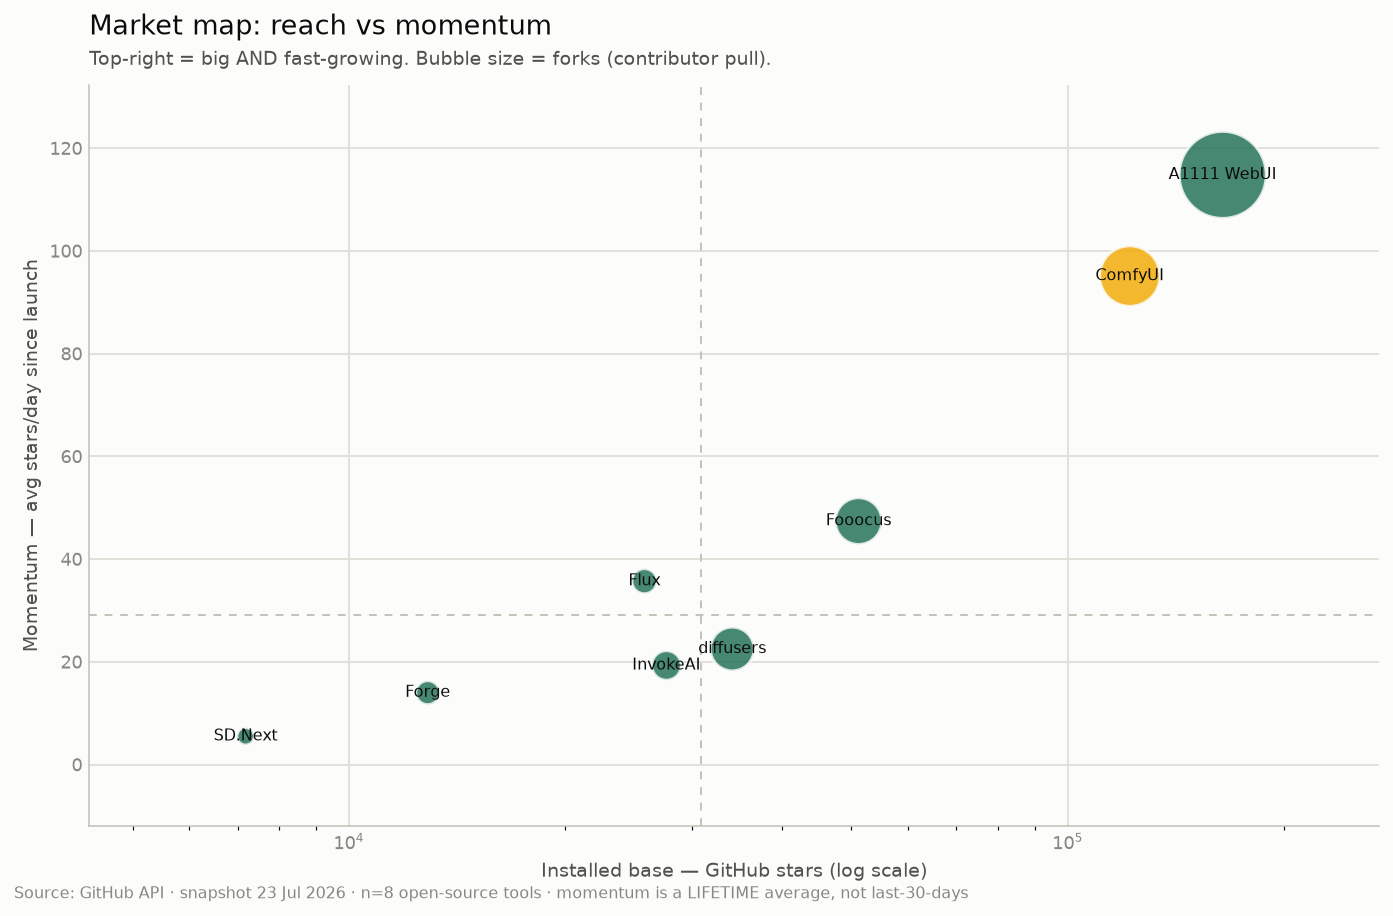
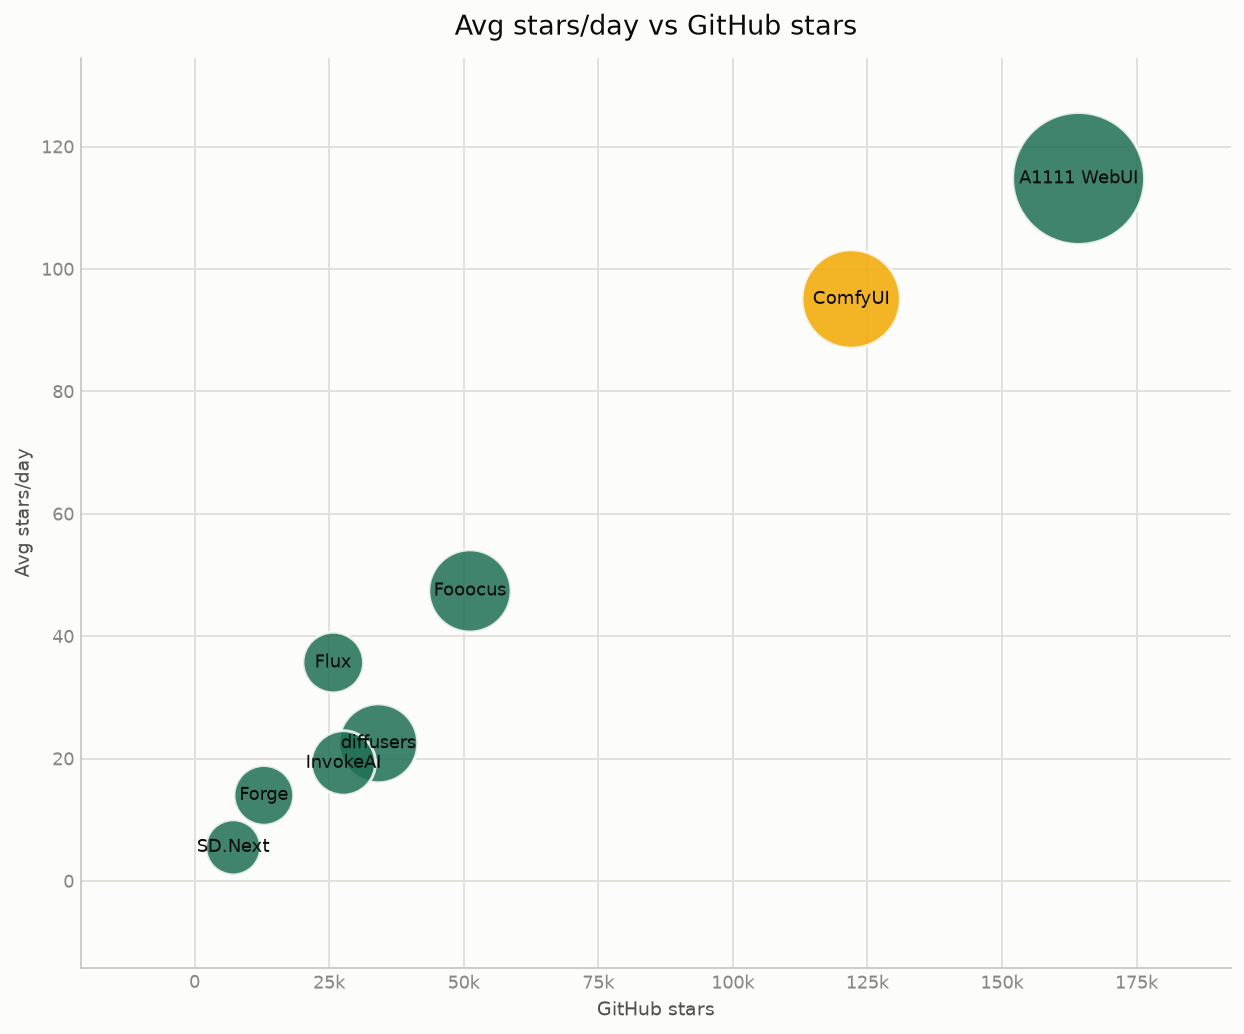
Follow the PDF ground rules: trim chart API, center layout, reset to 0.1.0
Per the "Build Your First Library" deck and the user's direction:
- Design the smallest API: trim chart signatures to
  radial_bar(df, label_col, value_col, highlight=None) and
  bubble(df, x, y, size_col, label_col=None, color_col=None, highlight=None).
  Titles derive from column names; drop title/subtitle/source/vline/xlabel/etc.
- Keep exactly the two named charts (radial_bar, bubble); drop ranked_bar
- Center the plot in the figure with symmetric margins; radial labels moved
  to one outer ring; bubbles sized large enough to read
- Reset to 0.1.0 ("0.1.0 mindset"); package is 134 lines
- Sync example (rename columns for friendly auto-titles), README, video
  script, and design rationale to the trimmed API (attribution now lives in
  README / narration, not an on-chart footer)

diff --git a/src/simple_eda/plots.py b/src/simple_eda/plots.py
@@ -1,7 +1,8 @@
-"""Styled matplotlib charts. Each takes a DataFrame and returns a Figure
-(never shows, never mutates). One idea: color carries meaning and the single
-gold accent marks the value that matters. title / subtitle / source= follow
-McCandless's lenses (interestingness, function, form, integrity)."""
+"""Two styled matplotlib charts plus a shared house style. Each takes a
+DataFrame and returns a Figure (never shows, never mutates). Signatures are
+kept small (the "design the smallest API" rule); color carries meaning and a
+single gold accent marks the highlighted category. Titles derive from the
+column names, so there are no title/label parameters to pass."""
 
 import numpy as np
 import matplotlib.pyplot as plt
@@ -11,10 +12,9 @@ import pandas as pd
 
 SURFACE, INK, SECONDARY, MUTED = "#fcfcfb", "#0b0b0b", "#52514e", "#898781"
 GRID, BASELINE = "#e1e0d9", "#c3c2b7"
-GREEN, GOLD = "#1f6f54", "#f2a900"   # recessive base + the one accent (school colors)
+GREEN, GOLD = "#1f6f54", "#f2a900"                       # recessive base + one accent
 RAMP = mcolors.LinearSegmentedColormap.from_list("g", ["#cfe8dc", GREEN])  # magnitude
-# a small colorblind-safe qualitative set for category coloring (blue/orange/aqua/violet/red)
-QUAL = ["#2a78d6", "#eb6834", "#1baf7a", "#4a3aa7", "#e34948", "#eda100"]
+QUAL = ["#2a78d6", "#eb6834", "#1baf7a", "#4a3aa7", "#e34948", "#eda100"]   # categories
 
 
 def _k(x, _p=None):
@@ -29,107 +29,63 @@ def _style(ax):
     ax.tick_params(colors=MUTED, labelsize=9, length=0)
 
 
-def _frame(fig, ax, title, subtitle=None, source=None):
-    """Title + optional takeaway subtitle + optional source footer (integrity)."""
-    ax.set_title(title, loc="left", color=INK, fontsize=14, pad=26 if subtitle else 12)
-    if subtitle:
-        ax.annotate(subtitle, (0, 1), (0, 8), "axes fraction", "offset points",
-                    ha="left", va="bottom", color=SECONDARY, fontsize=10)
-    if source:
-        fig.text(0.01, 0.005, source, color=MUTED, fontsize=8)
-
-
-def ranked_bar(df, label_col, value_col, top=None, title=None, subtitle=None,
-               xlabel=None, source=None):
-    """Horizontal ranked bar; the #1 value is gold, the rest recede."""
-    d = df[[label_col, value_col]].dropna().sort_values(value_col)
-    if top: d = d.tail(top)
-    labels, values = d[label_col].astype(str).tolist(), d[value_col].tolist()
-    colors = [GREEN] * len(values); colors[-1] = GOLD
-    fig, ax = plt.subplots(figsize=(9, max(2.5, 0.5 * len(values) + 1.2))); _style(ax)
-    ax.barh(labels, values, color=colors, height=0.68)
-    ax.xaxis.grid(True, color=GRID, linewidth=1)
-    ax.xaxis.set_major_formatter(FuncFormatter(_k))
-    for y, v in enumerate(values):
-        ax.text(v + max(values) * 0.01, y, f"{v:,.0f}", va="center", color=SECONDARY, fontsize=9)
-    ax.margins(x=0.13)
-    _frame(fig, ax, title or f"{value_col} by {label_col}", subtitle, source)
-    ax.set_xlabel(xlabel or value_col, color=SECONDARY)
-    fig.tight_layout(); return fig
-
-
-def radial_bar(df, label_col, value_col, highlight=None, title=None,
-               subtitle=None, source=None):
-    """Circular bar chart: one bar per category, length AND color = magnitude.
-    A narrative, high-impact take on a ranking. The gold bar is `highlight`."""
+def radial_bar(df, label_col, value_col, highlight=None):
+    """Circular bar chart: bar length AND color both encode value; the
+    highlighted category is gold. Centered and symmetric in the figure."""
     d = df[[label_col, value_col]].dropna().sort_values(value_col, ascending=False)
-    labels, values = d[label_col].astype(str).tolist(), d[value_col].to_numpy(float)
+    labels = d[label_col].astype(str).tolist()
+    values = d[value_col].to_numpy(float)
     n = len(values); vmax = values.max()
     ang = np.linspace(0, 2 * np.pi, n, endpoint=False)
     width = 2 * np.pi / n * 0.9
-    colors = [GOLD if labels[i] == highlight else RAMP(values[i] / vmax) for i in range(n)]
+    colors = [GOLD if labels[i] == str(highlight) else RAMP(values[i] / vmax) for i in range(n)]
 
-    fig, ax = plt.subplots(figsize=(8.5, 8.5), subplot_kw={"projection": "polar"})
+    fig, ax = plt.subplots(figsize=(8, 8), subplot_kw={"projection": "polar"})
     fig.set_facecolor(SURFACE); ax.set_facecolor(SURFACE)
-    ax.bar(ang, values, width=width, color=colors, edgecolor=SURFACE, linewidth=1.5, zorder=3)
+    ax.set_position([0.13, 0.13, 0.74, 0.74])           # centered square, equal margins
+    ax.bar(ang, values, width=width, color=colors, edgecolor=SURFACE, linewidth=1.5)
     ax.set_theta_zero_location("N"); ax.set_theta_direction(-1)
-    ax.set_ylim(-vmax * 0.45, vmax * 1.02)  # hollow center
-    ax.set_xticks([]); ax.set_yticks([]); ax.spines["polar"].set_visible(False); ax.grid(False)
-    for i in range(n):
-        deg = np.degrees(ang[i]); rot = deg
-        align = "left"
+    ax.set_ylim(-vmax * 0.5, vmax * 1.32)               # hollow center + room for a label ring
+    ax.set_xticks([]); ax.set_yticks([])
+    ax.spines["polar"].set_visible(False); ax.grid(False)
+    for i in range(n):                                  # labels on one outer ring (tidy, symmetric)
+        deg = np.degrees(ang[i]); rot, ha = deg, "left"
         if 90 < deg < 270:
-            rot = deg + 180; align = "right"
-        ax.text(ang[i], values[i] + vmax * 0.04, f"{labels[i]}  {values[i]:,.0f}",
-                rotation=rot, rotation_mode="anchor", ha=align, va="center",
-                fontsize=8.5, color=INK if labels[i] == highlight else SECONDARY,
-                weight="bold" if labels[i] == highlight else "normal")
-    if title:
-        fig.text(0.5, 0.94, title, ha="center", color=INK, fontsize=15, weight="bold")
-    if subtitle:
-        fig.text(0.5, 0.905, subtitle, ha="center", color=SECONDARY, fontsize=10)
-    if source:
-        fig.text(0.01, 0.01, source, color=MUTED, fontsize=8)
+            rot, ha = deg + 180, "right"
+        ax.text(ang[i], vmax * 1.12, f"{labels[i]}  {values[i]:,.0f}",
+                rotation=rot, rotation_mode="anchor", ha=ha, va="center", fontsize=9,
+                color=INK if labels[i] == str(highlight) else SECONDARY,
+                weight="bold" if labels[i] == str(highlight) else "normal")
+    fig.suptitle(f"{value_col} by {label_col}", y=0.95, fontsize=15, weight="bold", color=INK)
     return fig
 
 
-def bubble(df, x, y, size_col, label_col=None, color_col=None, highlight=None,
-           logx=False, vline=None, hline=None, title=None, subtitle=None,
-           xlabel=None, ylabel=None, source=None, size_range=(80, 2000)):
-    """Bubble "market map": x vs y, bubble area = size_col, color = color_col
-    (a category) or the gold accent for `highlight`. Reusable for any data."""
+def bubble(df, x, y, size_col, label_col=None, color_col=None, highlight=None):
+    """Bubble chart: bubble AREA = size_col; color = color_col category, or the
+    gold accent for the highlighted label. Bubbles are large enough to read and
+    the plot is centered with symmetric margins."""
     d = df.dropna(subset=[x, y, size_col]).copy()
     s = d[size_col].to_numpy(float)
-    sizes = size_range[0] + (s - s.min()) / (np.ptp(s) or 1) * (size_range[1] - size_range[0])
+    sizes = 800 + (s - s.min()) / (np.ptp(s) or 1) * (4600 - 800)   # never too small
 
-    fig, ax = plt.subplots(figsize=(10, 6.5)); _style(ax)
-    if vline is not None: ax.axvline(vline, color=BASELINE, lw=1, ls=(0, (4, 4)))
-    if hline is not None: ax.axhline(hline, color=BASELINE, lw=1, ls=(0, (4, 4)))
-
+    fig, ax = plt.subplots(figsize=(9, 7.5)); _style(ax)
+    labels = d[label_col].astype(str) if label_col else pd.Series([""] * len(d), index=d.index)
     if color_col:
         cats = list(dict.fromkeys(d[color_col]))
         cmap = {c: QUAL[i % len(QUAL)] for i, c in enumerate(cats)}
         colors = [cmap[c] for c in d[color_col]]
     else:
-        colors = [GOLD if (label_col and r == highlight) else GREEN
-                  for r in (d[label_col] if label_col else [None] * len(d))]
-    ax.scatter(d[x], d[y], s=sizes, c=colors, alpha=0.82,
-               edgecolor=SURFACE, linewidth=1.5, zorder=3)
-    if label_col:
-        for _, r in d.iterrows():
-            ax.annotate(str(r[label_col]), (r[x], r[y]), xytext=(0, 0),
-                        textcoords="offset points", ha="center", va="center",
-                        fontsize=8, color=INK, zorder=5)
-    if logx: ax.set_xscale("log")
+        colors = [GOLD if lab == str(highlight) else GREEN for lab in labels]
+    ax.scatter(d[x], d[y], s=sizes, c=colors, alpha=0.85, edgecolor=SURFACE, linewidth=1.5, zorder=3)
+    for xi, yi, lab in zip(d[x], d[y], labels):
+        ax.annotate(lab, (xi, yi), ha="center", va="center", fontsize=9, color=INK, zorder=5)
     ax.grid(True, color=GRID, linewidth=1)
-    ax.yaxis.set_major_formatter(FuncFormatter(_k))
-    if not logx: ax.xaxis.set_major_formatter(FuncFormatter(_k))
-    ax.margins(0.16)
-    if color_col:  # a legend only when color encodes a category
+    ax.xaxis.set_major_formatter(FuncFormatter(_k)); ax.yaxis.set_major_formatter(FuncFormatter(_k))
+    ax.margins(0.18)                                     # symmetric breathing room
+    if color_col:
         for c in cats:
-            ax.scatter([], [], c=cmap[c], s=90, edgecolor=SURFACE, label=str(c))
-        ax.legend(frameon=False, fontsize=9, labelcolor=SECONDARY, loc="best")
-    _frame(fig, ax, title or f"{y} vs {x}", subtitle, source)
-    ax.set_xlabel((xlabel or x) + (" (log scale)" if logx else ""), color=SECONDARY)
-    ax.set_ylabel(ylabel or y, color=SECONDARY)
+            ax.scatter([], [], c=cmap[c], s=120, edgecolor=SURFACE, label=str(c))
+        ax.legend(frameon=False, fontsize=9, labelcolor=SECONDARY)
+    ax.set_title(f"{y} vs {x}", loc="center", color=INK, fontsize=14, pad=12)
+    ax.set_xlabel(x, color=SECONDARY); ax.set_ylabel(y, color=SECONDARY)
     fig.tight_layout(); return fig

diff --git a/examples/ai_image_tool_race.py b/examples/ai_image_tool_race.py
@@ -1,8 +1,11 @@
 """The AI Image-Gen Tool Race — demo of simple_eda on real adoption data.
 
-Reads the bundled GitHub snapshot and produces the two "favorite" charts:
+Produces the two "favorite" charts:
   1. radial_bar — GitHub stars per tool (mindshare), leader in gold
   2. bubble     — reach vs momentum, bubble size = forks (a market map)
+
+Titles come from the column names, so we rename columns to friendly labels
+first (the library keeps a tiny, no-frills signature).
 
 Run:  python examples/ai_image_tool_race.py
 Refresh the data first with:  python scripts/fetch_ai_tools.py
@@ -13,31 +16,24 @@ matplotlib.use("Agg")  # save files without a display
 import pandas as pd
 import simple_eda as eda
 
-df = pd.read_csv("data/ai_image_tools_2026-07.csv")
-SOURCE = "Source: GitHub API · snapshot 23 Jul 2026 · n=8 open-source tools"
+df = pd.read_csv("data/ai_image_tools_2026-07.csv").rename(columns={
+    "tool": "Tool",
+    "stars": "GitHub stars",
+    "stars_per_day": "Avg stars/day",
+    "forks": "Forks",
+})
 
 # --- a quick look, the boring EDA way -----------------------------------------
 print(eda.summarize(df))
 print("numeric:", eda.numeric_columns(df))
 
 # --- chart 1: the race, as a radial bar ---------------------------------------
-eda.radial_bar(
-    df, "tool", "stars", highlight="ComfyUI",
-    title="The AI Image-Gen Tool Race",
-    subtitle="GitHub stars by tool — ComfyUI, the modern leader, in gold",
-    source=SOURCE,
-).savefig("examples/01_radial.png", dpi=140, bbox_inches="tight")
+eda.radial_bar(df, "Tool", "GitHub stars", highlight="ComfyUI").savefig(
+    "examples/01_radial.png", dpi=140)  # no tight crop: keep the centered square
 
-# --- chart 2: the market map (reach vs momentum, size = forks) -----------------
-eda.bubble(
-    df, "stars", "stars_per_day", size_col="forks", label_col="tool",
-    highlight="ComfyUI", logx=True,
-    vline=df["stars"].median(), hline=df["stars_per_day"].median(),
-    title="Market map: reach vs momentum",
-    subtitle="Top-right = big AND fast-growing. Bubble size = forks (contributor pull).",
-    xlabel="Installed base — GitHub stars",
-    ylabel="Momentum — avg stars/day since launch",
-    source=SOURCE + " · momentum is a LIFETIME average, not last-30-days",
-).savefig("examples/02_market_map.png", dpi=140, bbox_inches="tight")
+# --- chart 2: the market map (reach vs momentum, bubble size = forks) ----------
+eda.bubble(df, "GitHub stars", "Avg stars/day", "Forks",
+           label_col="Tool", highlight="ComfyUI").savefig(
+    "examples/02_market_map.png", dpi=140, bbox_inches="tight")
 
 print("saved examples/01_radial.png and examples/02_market_map.png")

diff --git a/src/simple_eda/__init__.py b/src/simple_eda/__init__.py
@@ -1,10 +1,10 @@
-"""simple_eda: pandas-based EDA helpers plus styled matplotlib charts."""
+"""simple_eda: pandas-based EDA helpers plus two styled matplotlib charts."""
 
 from .core import summarize, missing, numeric_columns, categorical_columns
-from .plots import ranked_bar, radial_bar, bubble
+from .plots import radial_bar, bubble
 
-__version__ = "0.4.0"
+__version__ = "0.1.0"
 __all__ = [
     "summarize", "missing", "numeric_columns", "categorical_columns",
-    "ranked_bar", "radial_bar", "bubble",
+    "radial_bar", "bubble",
 ]

diff --git a/docs/DESIGN_RATIONALE.md b/docs/DESIGN_RATIONALE.md
@@ -8,10 +8,10 @@ answered, and what it protects against.
 
 | Lens | What it demands | How the charts answer it |
 | --- | --- | --- |
-| **Interestingness** | relevant, meaningful, new | A live question — *which AI-image tools are winning developer adoption?* — with the "so what" stated in every **subtitle**, not left for the viewer to infer. |
-| **Function** | easiness, usefulness, usability, fit | Human titles/axes ("Installed base — GitHub stars", not `stars`); `k`/`M` tick formatting; direct value labels (no legend lookup); a log x-axis so 7k–164k all read; quadrant guide lines that make "big AND fast-growing" a *place* on the chart. |
-| **Form** | beauty, structure, appearance | One recessive base color (green) + one accent (gold) on the single key value; off-white surface; hairline grid; top/right spines removed. Structure carries meaning — bars sorted so rank *is* the shape. |
-| **Integrity** | truth, consistency, honesty, accuracy | Every chart carries a **source + date footer**. The momentum metric is explicitly labeled a *lifetime average, not last-30-days*, because I can't get star history — I refuse to imply precision I don't have. Missing signals (PyPI/HF) are dropped, never silently zero-filled. |
+| **Interestingness** | relevant, meaningful, new | A live question — *which AI-image tools are winning developer adoption?* The gold accent answers it at a glance; the "so what" is delivered in the README and the video narration. |
+| **Function** | easiness, usefulness, usability, fit | Titles derive from friendly column names; `k`/`M` tick formatting; direct value labels (no legend lookup); the plot is centered with symmetric margins; bubbles are sized large enough to read. |
+| **Form** | beauty, structure, appearance | One recessive base color (green) + one accent (gold) on the single key value; off-white surface; hairline grid; top/right spines removed. In `radial_bar`, color *and* length both encode magnitude. |
+| **Integrity** | truth, consistency, honesty, accuracy | The momentum metric is a *lifetime average, not last-30-days* — stated in the README and narration, because star history isn't available and I refuse to imply precision I don't have. Missing signals (PyPI/HF) are dropped, never silently zero-filled. Attribution is kept off-chart only to honor the "smallest API" rule — never to hide it. |
 
 ## The failure modes each choice avoids
 
@@ -27,8 +27,8 @@ defenses against those:
 - **Interestingness without Integrity → "rubbish."** A hot topic tempts
   overclaiming. The honest "lifetime average" caveat keeps the momentum story
   truthful.
-- **Everything except Interestingness → "experiment."** The subtitle forces a
-  point of view, so the chart argues something instead of just displaying.
+- **Everything except Interestingness → "experiment."** The title + gold accent
+  force a point of view, so the chart argues something instead of just displaying.
 
 ## Colorblind integrity (a Form + Integrity overlap)
 
@@ -39,10 +39,11 @@ only works for full-color vision isn't accurate for everyone.
 
 ## How this maps to the reusable library
 
-The lenses are encoded as function parameters, so any future chart inherits
-them — this is the "professional, adaptive in real work" part:
+The lenses are baked into tiny functions (per the "design the smallest API"
+rule) rather than exposed as many optional parameters:
 
-- `title=` / `subtitle=` → Interestingness (question + takeaway)
-- `xlabel=` / `ylabel=`, `k`/`M` formatter, `vline=` / `hline=` → Function
+- `highlight=` + gold accent → Interestingness (points at the answer)
+- auto titles from column names, `k`/`M` formatter, big readable bubbles,
+  centered layout → Function
 - house palette, `_style()`, one gold accent → Form
-- `source=` footer, honest metric labels → Integrity
+- honest metric labels in README + narration → Integrity

diff --git a/README.md b/README.md
@@ -34,11 +34,13 @@ list, or pandas Series). Nothing is printed; the DataFrame is never mutated.
 Each takes a DataFrame and **returns a matplotlib `Figure`** (never calls
 `show`, never mutates). Save with `fig.savefig(...)` or show it in a notebook.
 
+Two charts, both with small no-frills signatures (titles derive from the
+column names — rename your columns to friendly labels for a nice title):
+
 | Function | Chart |
 | --- | --- |
-| `radial_bar(df, label_col, value_col, highlight=)` | circular bar chart; length + color = magnitude |
-| `bubble(df, x, y, size_col, color_col=, highlight=)` | bubble "market map"; size + color add dimensions |
-| `ranked_bar(df, label_col, value_col)` | horizontal ranked bar, leader in gold |
+| `radial_bar(df, label_col, value_col, highlight=None)` | circular bar chart; length + color = magnitude |
+| `bubble(df, x, y, size_col, label_col=None, color_col=None, highlight=None)` | bubble "market map"; size + color add dimensions |
 
 ### Aesthetic choices
 
@@ -48,14 +50,17 @@ Each takes a DataFrame and **returns a matplotlib `Figure`** (never calls
 - **Color carries meaning.** In `radial_bar`, color *and* length both encode
   magnitude (a light→dark green ramp); in `bubble`, size and an optional
   category color add dimensions without a second chart.
+- **Centered & symmetric.** The plot sits in the middle of the figure with
+  balanced margins; bubbles are sized large enough to read at a glance.
 - **Recessive chrome, data first.** Off-white surface, hairline gridlines,
   muted labels, top/right spines removed.
 - **Direct labels over legends.** Values sit on the marks — nothing to
   cross-reference (a legend appears only when color encodes a category).
-- **Attribution = integrity.** Every chart takes a `source=` footer and honest
-  metric labels. See [`docs/DESIGN_RATIONALE.md`](docs/DESIGN_RATIONALE.md) for
-  how the whole design maps to McCandless's four lenses of good information
-  design (Interestingness × Function × Form × Integrity).
+
+See [`docs/DESIGN_RATIONALE.md`](docs/DESIGN_RATIONALE.md) for how the design
+maps to McCandless's four lenses (Interestingness × Function × Form ×
+Integrity). Source attribution lives in the README / video narration, since the
+chart signatures stay minimal.
 
 ## The AI Image-Gen Tool Race
 

diff --git a/docs/VIDEO_SCRIPT.md b/docs/VIDEO_SCRIPT.md
@@ -30,18 +30,18 @@ in an incognito window before submitting** (this is the #1 thing graders check).
 > brightness, so the highlight still reads for colorblind viewers."
 
 **Chart 2 — `examples/02_market_map.png` (bubble market map):**
-> "This is `bubble` as a *market map*: installed base on the x-axis, log scale;
-> momentum — stars per day since launch — on the y; and bubble size is forks,
-> a proxy for contributor pull. Top-right is 'big and still growing fast.'
+> "This is `bubble` as a *market map*: installed base — GitHub stars — on the
+> x-axis; momentum — stars per day since launch — on the y; and bubble size is
+> forks, a proxy for contributor pull. Top-right is 'big and still growing fast.'
 > **ComfyUI**, in gold, is the modern leader: nearly the mindshare of A1111 but
 > far younger. That's the kind of one-slide read a GTM or product team acts on."
 
 ## 1:20–1:50 — Two problems I hit  *(requirement #3)*
 
-> "**Problem one: encoding three variables without clutter.** A plain scatter
-> shows two. I scaled bubble *area* to a third (forks) and split the plane with
-> median guide lines, so 'big and fast-growing' becomes a place on the chart —
-> readable, not a wall of dots."
+> "**Problem one: centering the radial chart.** Saving with a tight crop left it
+> lopsided, and the small-value labels crowded the middle. I fixed the polar
+> axes to a centered square and moved every label onto one outer ring, so the
+> chart reads symmetric and balanced."
 
 > "**Problem two: the metrics weren't comparable and some were missing.** Stars,
 > PyPI downloads, and Hugging Face downloads live on totally different scales,
